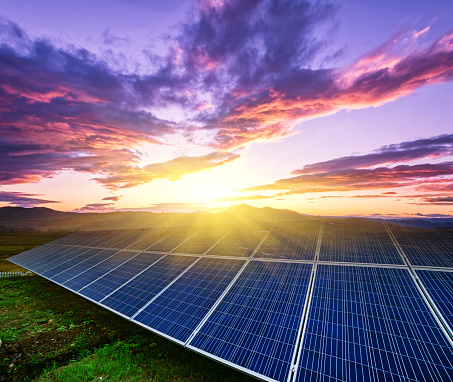
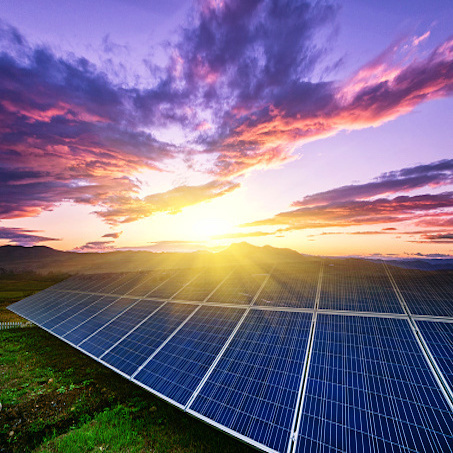
made images square

diff --git a/docs/index.html b/docs/index.html
@@ -144,9 +144,6 @@
 
                 <div class="col-md-12 my-auto">
                     <img src="assets/img/motivation/applying%20deep%20learning%20to%20overhead%20imagery.png" class="img-responsive" alt="apply deep learning" style="width:90%">
-                    <br>
-                    <caption><i>Image from: <a href="https://duke-bc-dl-for-energy-infrastructure.github.io/">
-                        2020-2021 Bass Connections team.</a></i></caption>
 
                 </div>
             </div>
